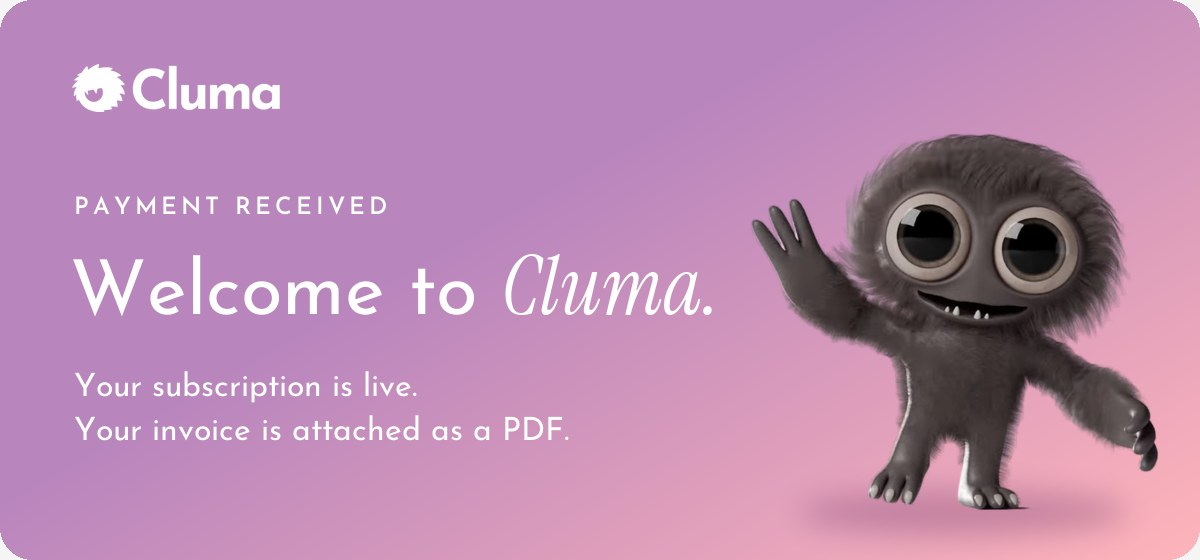
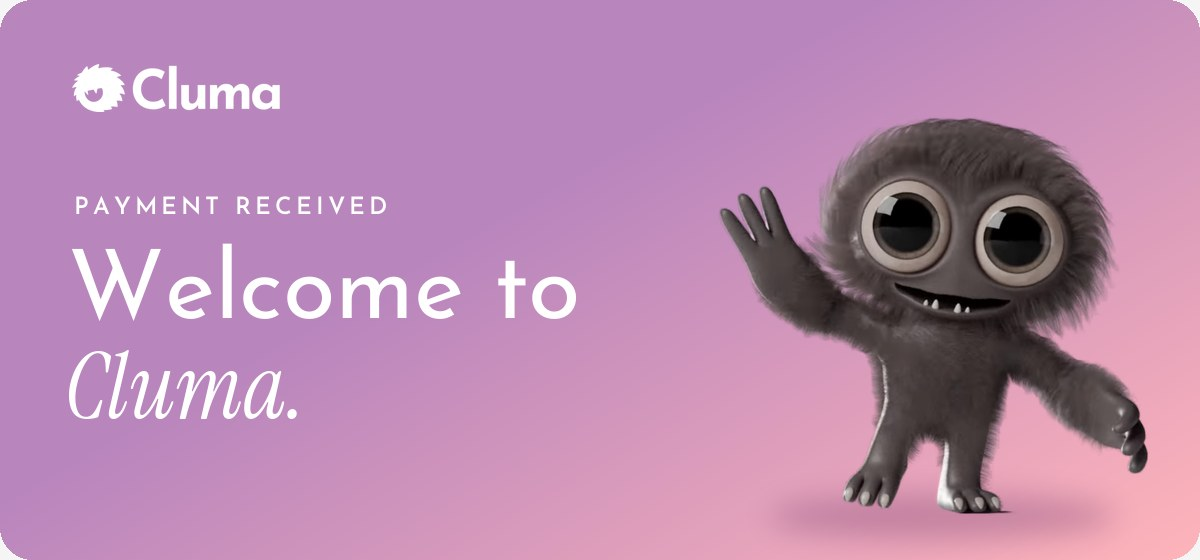
Email v5: bigger two-line heading, accent words at optical size

Changed region(s): [[0.0617, 0.2125, 0.9867, 0.9411], [0.0308, 0.6071, 0.4625, 0.7893], [0.8942, 0.6375, 0.925, 0.6679]]

diff --git a/email/render_email.py b/email/render_email.py
@@ -22,12 +22,12 @@ def rounded(img, rad, bg=PAGE):
     m = Image.new('L', img.size, 0); ImageDraw.Draw(m).rounded_rectangle([0, 0, img.width - 1, img.height - 1], radius=rad, fill=255)
     return Image.composite(img, Image.new('RGB', img.size, bg), m)
 
-def hero(cut, eyebrow, line1, accent, sub, out, mon_h=380):
+def hero(cut, eyebrow, line1, accent, sub, out, mon_h=400):
     W, H = 1200, 560
     img = gradient(W, H)
     mon = Image.open(f'{S}/{cut}').convert('RGBA')
     mon = mon.resize((round(mon.width * mon_h / mon.height), mon_h), Image.LANCZOS)
-    mx = W - mon.width - 40; my = H - mon.height - 48
+    mx = W - mon.width - 50; my = H - mon.height - 44
     sh = Image.new('L', (W, H), 0)
     ImageDraw.Draw(sh).ellipse([mx + mon.width * 0.12, my + mon.height - 22, mx + mon.width * 0.92, my + mon.height + 22], fill=90)
     sh = sh.filter(ImageFilter.GaussianBlur(14))
@@ -40,16 +40,13 @@ def hero(cut, eyebrow, line1, accent, sub, out, mon_h=380):
     f = jos(24, 'SemiBold'); x = 74
     for ch in eyebrow:
         d.text((x, 196), ch, font=f, fill=WHITE); x += f.getlength(ch) + 4
-    size = 76; base = 314
-    d.text((70, base), line1, font=jos(size), fill=WHITE, anchor='ls')
-    d.text((70 + jos(size).getlength(line1), base), accent, font=ser(size + 6), fill=WHITE, anchor='ls')
-    fs = jos(32)
-    for i, line in enumerate(sub):
-        d.text((74, 372 + i * 44), line, font=fs, fill=WHITE)
+    size = 96
+    d.text((68, 318), line1.strip(), font=jos(size), fill=WHITE, anchor='ls')
+    d.text((64, 418), accent, font=ser(round(size * 0.95)), fill=WHITE, anchor='ls')
     rounded(img, 32).save(f'{S}/{out}', quality=88, optimize=True, progressive=True)
 
 def heading(parts, out, size=52):
-    j = jos(size); sr = ser(size + 6)
+    j = jos(size, 'Medium'); sr = ser(round(size * 0.95))
     w = int(sum((j if k == 'j' else sr).getlength(t) for t, k in parts)) + 8
     img = Image.new('RGB', (w, 80), PAGE); d = ImageDraw.Draw(img); x = 0
     for t, k in parts:
@@ -63,6 +60,6 @@ def signature(out):
     img.save(f'{S}/{out}', optimize=True); return img.size
 
 if __name__ == '__main__':
-    hero('flicker-cut.png', 'PAYMENT RECEIVED', 'Welcome to ', 'Cluma.', ['Your subscription is live.', 'Your invoice is attached as a PDF.'], 'hero-welcome-en.jpg')
+    hero('flicker-cut.png', 'PAYMENT RECEIVED', 'Welcome to', 'Cluma.', [], 'hero-welcome-en.jpg')
     print(heading([('What happens ', 'j'), ('next', 's')], 'h-next-en.png'))
     print(signature('signature.png'))
